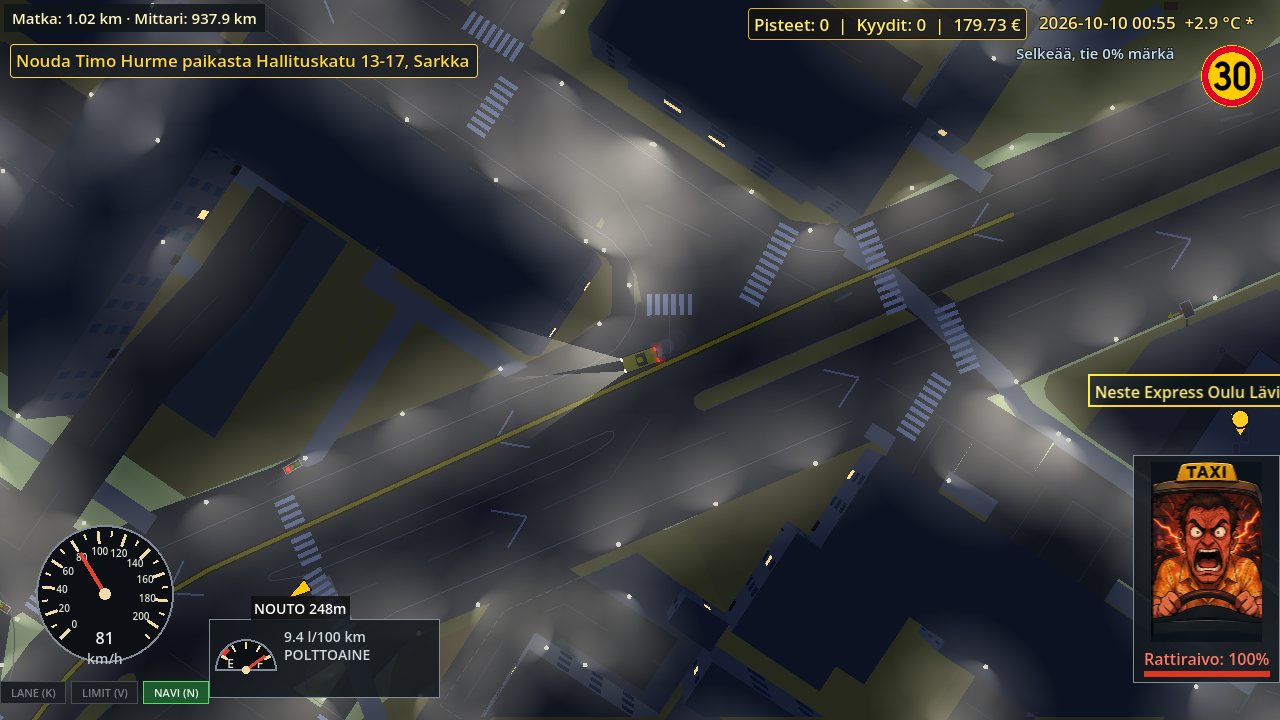
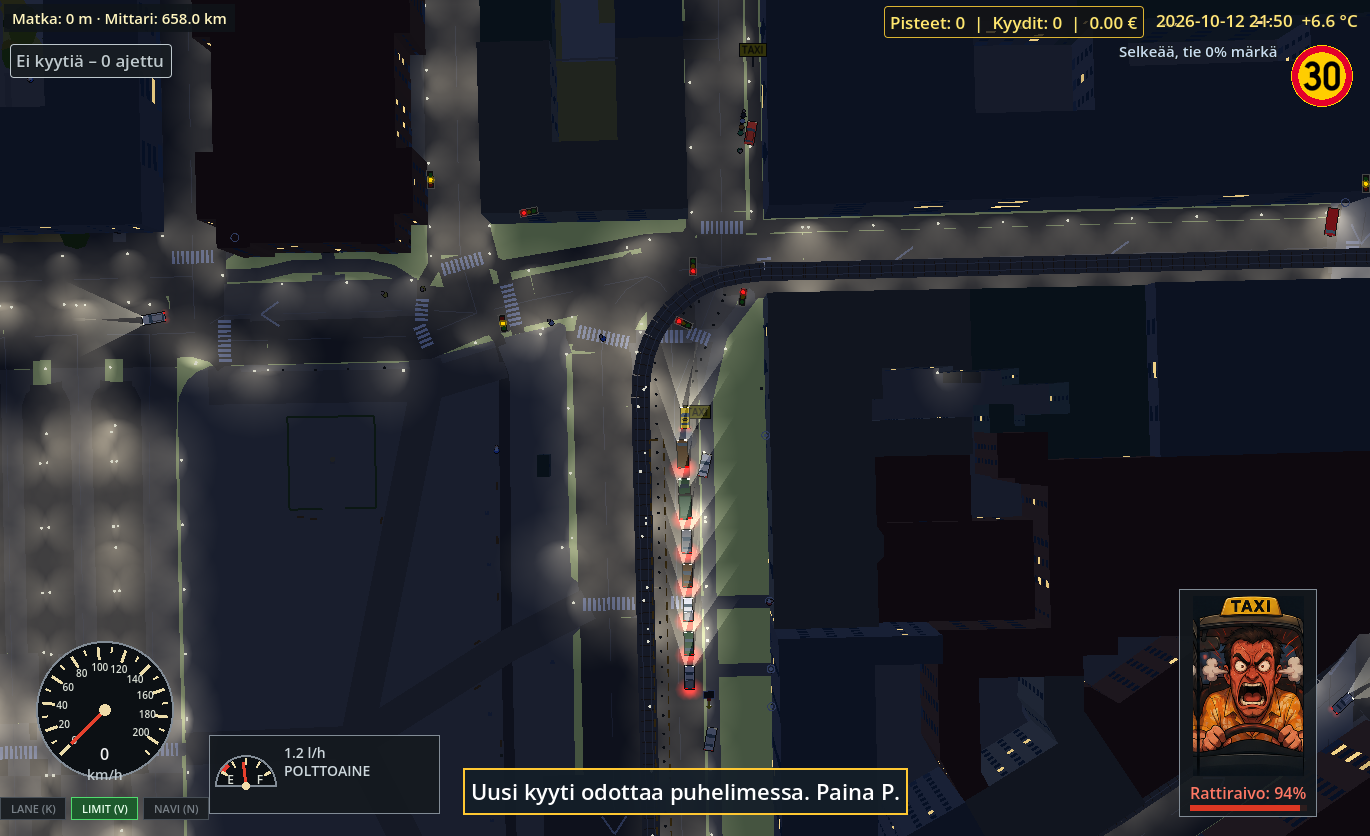
Website: fresh 0.17.0alpha screenshots - city and trains, night traffic, winter, phone orders, Finland map, forecast

diff --git a/web/script.js b/web/script.js
@@ -2,7 +2,7 @@ const translations = {
   fi: {
     navGame: 'Peli', navFeatures: 'Ominaisuudet', navRoadmap: 'Tulossa', navHow: 'Näin pelaat', navNotes: 'Julkaisutiedot', download: 'Lataa peli', release: 'Lataa Windows-asennus', explore: 'Tutustu peliin',
     kicker: 'Avoimen maailman taksipeli · Suomi', title: 'Vie asiakkaat perille.<br><em>Haasta tie.</em>', copy: 'Oikeita suomalaisia katuja. Neljä vuodenaikaa. Taksamittari käy, ja asiakas arvioi jokaisen mutkan.',
-    screenshotsKicker: 'PELIKUVIA / GODOT 0.16.0g-alpha', platform: 'GODOT + PYTHON-PALVELIN',
+    screenshotsKicker: 'PELIKUVIA / GODOT 0.17.0alpha', platform: 'GODOT + PYTHON-PALVELIN',
     introKicker: '01 / TYÖ', intro: 'Yksi kaupunki.<br><span>Loputtomasti tekosyitä.</span>', lead: 'The Road Rage Trip on ylhäältä kuvattu taksipeli, joka perustuu Suomen oikeisiin OpenStreetMap-katuihin.',
     introText: 'Nouda asiakkaita puhelimesta, taksiasemilta tai kadulta. Aja heidät perille, seuraa ehdotettua reittiä ja pidä pisteesi kasassa, kun liikenne, kamerat, sää ja tie itse testaavat hermojasi.',
     featureKicker: '02 / KONEPELLIN ALLA', featureTitle: 'Kauniisti<br><em>ärtyneille.</em>', featureIntro: 'Tämä ei ole pelkkä tausta. Tieverkosto, sää, jalankulkijat ja sääntöjen rikkomisen seuraukset elävät ympärilläsi.',
@@ -47,7 +47,7 @@ const translations = {
   en: {
     navGame: 'Game', navFeatures: 'Features', navRoadmap: "What's next", navHow: 'How to play', navNotes: 'Release notes', download: 'Download', release: 'Download Windows installer', explore: 'Explore the game',
     kicker: 'Open-world taxi driving · Finland', title: 'Deliver fares.<br><em>Unleash the rage.</em>', copy: 'Real Finnish streets. Four changing seasons. The meter is running, and your passenger judges every turn.',
-    screenshotsKicker: 'GAMEPLAY SCREENSHOTS / GODOT 0.16.0g-alpha', platform: 'GODOT + PYTHON SERVER',
+    screenshotsKicker: 'GAMEPLAY SCREENSHOTS / GODOT 0.17.0alpha', platform: 'GODOT + PYTHON SERVER',
     introKicker: '01 / THE JOB', intro: 'One city.<br><span>Infinite excuses.</span>', lead: 'The Road Rage Trip is a top-down taxi game powered by real OpenStreetMap roads from Finland.',
     introText: 'Pick up passengers from the phone, taxi stands, or the street. Get them there, follow the suggested route, and keep your score intact while traffic, cameras, weather, and the road itself test your patience.',
     featureKicker: '02 / UNDER THE HOOD', featureTitle: 'Built for the<br><em>beautifully irritated.</em>', featureIntro: 'Not a backdrop. Roads, weather, pedestrians, and consequences are alive around you.',

diff --git a/web/index.html b/web/index.html
@@ -42,11 +42,14 @@
     </section>
 
     <section class="screenshots section-shell" aria-labelledby="screenshots-title">
-      <div class="section-kicker" id="screenshots-title">PELIKUVIA / GODOT 0.16.0g-alpha</div>
+      <div class="section-kicker" id="screenshots-title">PELIKUVIA / GODOT 0.17.0alpha</div>
       <div class="screenshot-grid">
-        <figure><a href="assets/godot-city.png" target="_blank"><img src="assets/godot-city.png" alt="Taksi suomalaisessa kaupungissa illansuussa" loading="lazy"></a><figcaption>Kaupunki / City</figcaption></figure>
-        <figure><a href="assets/godot-rain.png" target="_blank"><img src="assets/godot-rain.png" alt="Liikennettä ja sadetta Godot-pelin tiellä" loading="lazy"></a><figcaption>Sade ja liikenne / Rain and traffic</figcaption></figure>
-        <figure><a href="assets/godot-night.png" target="_blank"><img src="assets/godot-night.png" alt="Taksi valaistussa risteyksessä yöllä" loading="lazy"></a><figcaption>Yökaupunki / Night city</figcaption></figure>
+        <figure><a href="assets/godot-city.png" target="_blank"><img src="assets/godot-city.png" alt="Helsinki päivällä: vesistöt, sillat ja junien saapumistaulu" loading="lazy"></a><figcaption>Kaupunki ja junat / City and trains</figcaption></figure>
+        <figure><a href="assets/godot-night.png" target="_blank"><img src="assets/godot-night.png" alt="Iltaruuhka Helsingin valaistuilla kaduilla" loading="lazy"></a><figcaption>Yöruuhka / Night traffic</figcaption></figure>
+        <figure><a href="assets/godot-winter.png" target="_blank"><img src="assets/godot-winter.png" alt="Lumisade Oulun asemalla, juna raiteilla" loading="lazy"></a><figcaption>Talvi ja junat / Winter trains</figcaption></figure>
+        <figure><a href="assets/godot-phone.png" target="_blank"><img src="assets/godot-phone.png" alt="TaxiGo-puhelin: junamatkustajien ennakkotilaukset" loading="lazy"></a><figcaption>Kyytitilaukset / Phone orders</figcaption></figure>
+        <figure><a href="assets/godot-finland-map.png" target="_blank"><img src="assets/godot-finland-map.png" alt="Aloituspaikan valinta Suomen kartalta" loading="lazy"></a><figcaption>Suomen kartta / Map of Finland</figcaption></figure>
+        <figure><a href="assets/godot-forecast.png" target="_blank"><img src="assets/godot-forecast.png" alt="Aloitusnäyttö ja oikea sääennuste" loading="lazy"></a><figcaption>Sääennuste / Live forecast</figcaption></figure>
       </div>
     </section>
 
